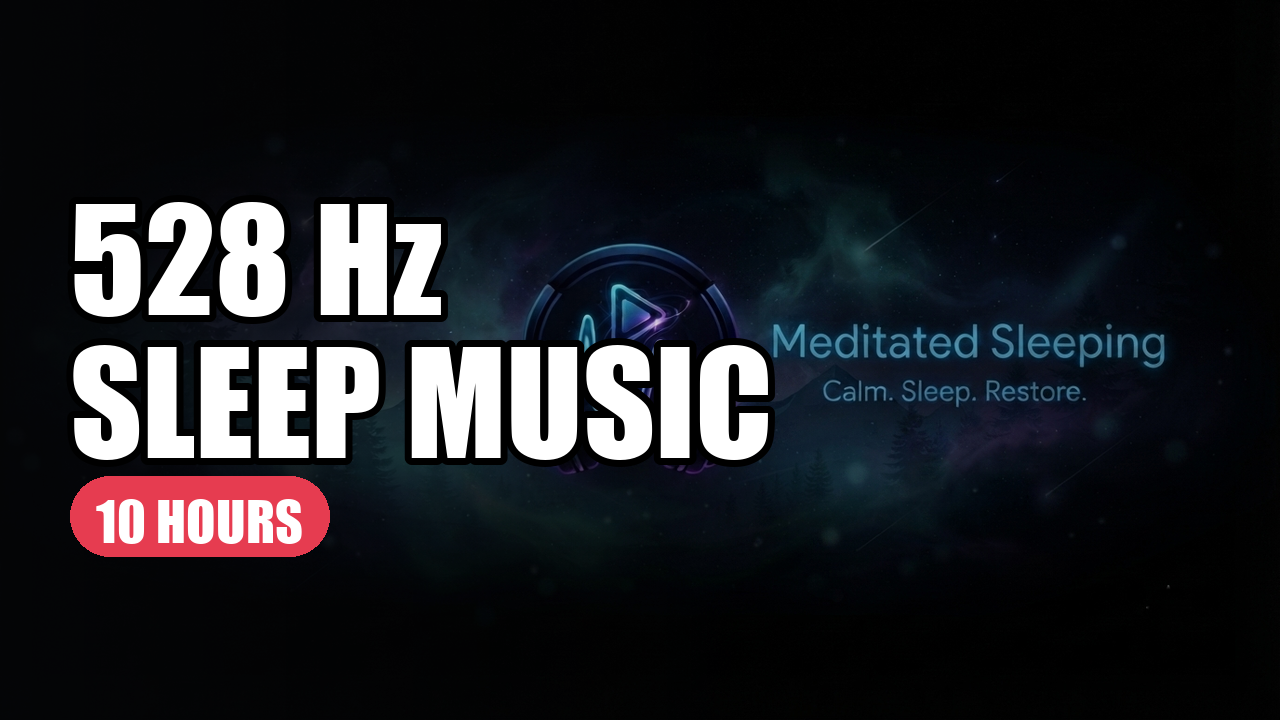
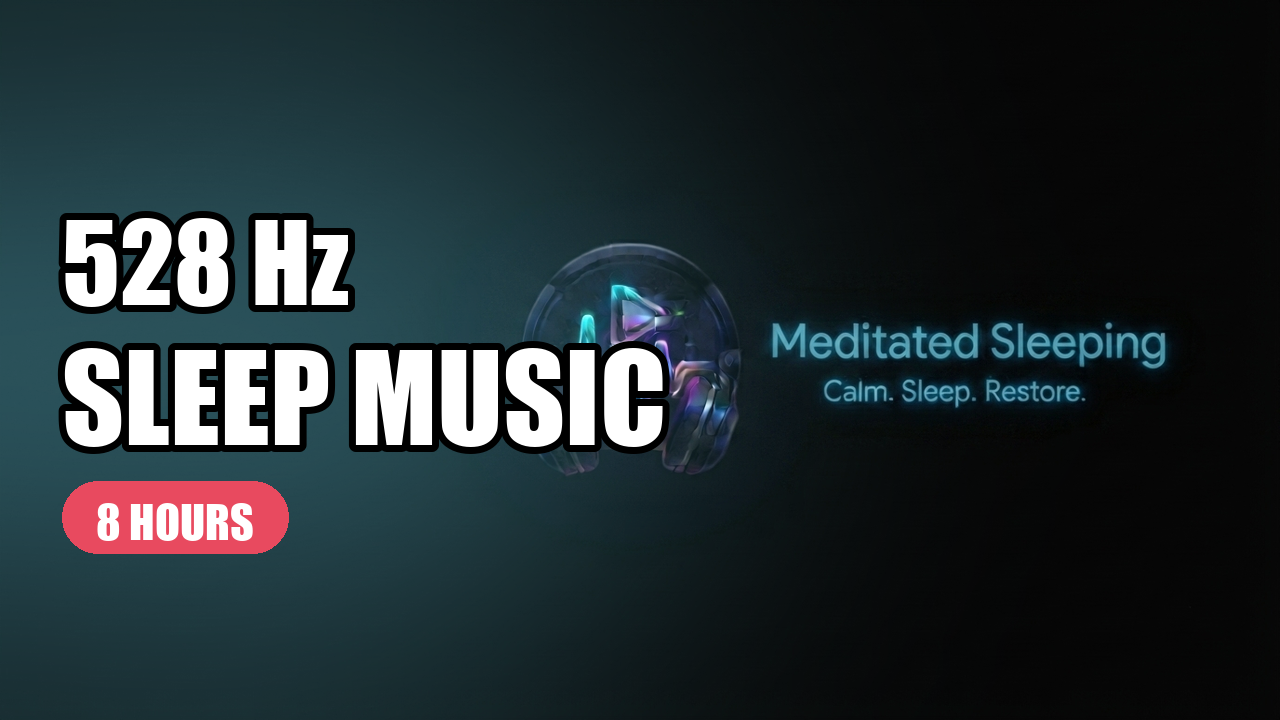
Thumbnails for all 19 themes + regenerable generator
- New: scripts/make_thumbnails.py builds 1280x720 thumbnails in the channel
  style (branded base + per-theme accent glow, two-line headline, duration
  pill). Local dev tool (needs Pillow); thumbnails ship as committed PNGs.
- Adds the 8 missing thumbnails: rain_drops, solfeggio_heal/spirit/deepsleep,
  om_136, 963hz_awakening, 852hz_intuition, 741hz_clarity
- Fixes 4 stale duration badges: gamma_focus, 528hz_sleep, delta_sleep and
  432hz_relax still read "10 HOURS" after those themes moved to 8h. The badge
  now comes from themes.long_hours_for(), so re-running after any duration
  change keeps it truthful (--stale regenerates only mismatched ones).

diff --git a/scripts/make_thumbnails.py b/scripts/make_thumbnails.py
@@ -1,0 +1,169 @@
+#!/usr/bin/env python3
+"""
+Generate per-theme long-form thumbnails (1280x720) in the channel style.
+
+Local dev tool — thumbnails are committed as PNGs and consumed by produce.py,
+so this is NOT run in CI. Requires Pillow (pip install pillow).
+
+Style: the branded base (headphone logo + "Meditated Sleeping") with a soft
+per-theme colour glow, a big two-line headline on the left, and a duration
+pill. The duration is read from themes.long_hours_for(), so re-running this
+after a duration change keeps the badges truthful.
+
+Usage:
+    python make_thumbnails.py                 # only themes with no thumbnail yet
+    python make_thumbnails.py --all           # regenerate every theme
+    python make_thumbnails.py --themes 963hz_awakening,om_136
+    python make_thumbnails.py --stale         # only ones whose badge is wrong
+"""
+import argparse
+import os
+import sys
+
+from PIL import Image, ImageChops, ImageDraw, ImageFilter, ImageFont
+
+sys.path.insert(0, os.path.dirname(os.path.abspath(__file__)))
+import themes as T  # noqa: E402
+
+HERE = os.path.dirname(os.path.abspath(__file__))
+ROOT = os.path.dirname(HERE)
+BASE = os.path.join(ROOT, "assets", "branding", "thumbnail_1280x720.png")
+OUT_DIR = os.path.join(ROOT, "assets", "thumbnails", "gen")
+
+W, H = 1280, 720
+MARGIN_X = 62
+MAX_TEXT_W = 660          # keep the headline clear of the brand lockup
+PILL_FILL = (232, 74, 95)  # channel red/pink
+
+FONT_CANDIDATES = [
+    r"C:\Windows\Fonts\impact.ttf",
+    r"C:\Windows\Fonts\arialbd.ttf",
+    "/usr/share/fonts/truetype/dejavu/DejaVuSans-Bold.ttf",
+]
+
+# headline lines + accent glow colour per theme
+STYLES = {
+    "rain_drops":          (["SOFT RAIN", "& WATER DROPS"], (60, 150, 200)),
+    "solfeggio_heal":      (["432·528·741 Hz", "HEALING SLEEP"], (70, 90, 210)),
+    "solfeggio_spirit":    (["528·741·963 Hz", "BODY & SPIRIT"], (150, 80, 210)),
+    "solfeggio_deepsleep": (["SOLFEGGIO + DELTA", "DEEP SLEEP"], (60, 100, 200)),
+    "om_136":              (["OM 136 Hz", "MEDITATION"], (215, 150, 60)),
+    "963hz_awakening":     (["963 Hz", "CROWN CHAKRA"], (150, 90, 220)),
+    "852hz_intuition":     (["852 Hz", "THIRD EYE"], (110, 90, 220)),
+    "741hz_clarity":       (["741 Hz", "CLEANSE & CLARITY"], (70, 180, 150)),
+    # already-shipped themes, for --all / --stale regeneration
+    "rain":                (["RAIN SOUNDS", "FOR SLEEPING"], (60, 140, 190)),
+    "waterfall":           (["WATERFALL", "SOUNDS"], (60, 170, 190)),
+    "forest":              (["FOREST", "SOUNDS"], (70, 170, 110)),
+    "sleeping":            (["DEEP SLEEP", "MUSIC"], (70, 110, 200)),
+    "indian":              (["INDIAN", "SLEEP MUSIC"], (210, 140, 60)),
+    "romantic":            (["ROMANTIC", "MUSIC"], (215, 80, 130)),
+    "romantic_night":      (["ROMANTIC NIGHT", "MUSIC"], (180, 70, 150)),
+    "gamma_focus":         (["40 Hz GAMMA", "FOCUS MUSIC"], (200, 160, 60)),
+    "528hz_sleep":         (["528 Hz", "SLEEP MUSIC"], (80, 170, 190)),
+    "delta_sleep":         (["DELTA WAVES", "DEEP SLEEP"], (70, 100, 200)),
+    "432hz_relax":         (["432 Hz", "RELAXING MUSIC"], (200, 110, 170)),
+}
+
+
+def load_font(size):
+    for path in FONT_CANDIDATES:
+        if os.path.exists(path):
+            return ImageFont.truetype(path, size)
+    return ImageFont.load_default()
+
+
+def fit_font(draw, text, start, min_size=40):
+    """Largest font size at which `text` fits MAX_TEXT_W."""
+    size = start
+    while size > min_size:
+        f = load_font(size)
+        if draw.textlength(text, font=f) <= MAX_TEXT_W:
+            return f
+        size -= 2
+    return load_font(min_size)
+
+
+def glow(img, color):
+    """Soft radial accent glow behind the headline area.
+
+    Screen-blended (lighten-only) so it lifts the black background without
+    dimming the brand lockup — a straight blend darkens the logo.
+    """
+    layer = Image.new("RGB", (W, H), (0, 0, 0))
+    d = ImageDraw.Draw(layer)
+    d.ellipse([-220, 60, 700, 660], fill=tuple(int(c * 0.5) for c in color))
+    layer = layer.filter(ImageFilter.GaussianBlur(170))
+    return ImageChops.screen(img, layer)
+
+
+def duration_label(key):
+    h = T.long_hours_for(key)
+    return f"{h} HOURS"
+
+
+def build(key, lines, color):
+    base = Image.open(BASE).convert("RGB").resize((W, H))
+    img = glow(base, color)
+    draw = ImageDraw.Draw(img)
+
+    f1 = fit_font(draw, lines[0], 108)
+    f2 = fit_font(draw, lines[1], 120)
+    h1 = draw.textbbox((0, 0), lines[0], font=f1)[3]
+    h2 = draw.textbbox((0, 0), lines[1], font=f2)[3]
+
+    y = 196
+    for text, font, hh in ((lines[0], f1, h1), (lines[1], f2, h2)):
+        draw.text((MARGIN_X, y), text, font=font, fill=(255, 255, 255),
+                  stroke_width=7, stroke_fill=(0, 0, 0))
+        y += hh + 16
+
+    # duration pill
+    label = duration_label(key)
+    pf = load_font(46)
+    tw = draw.textlength(label, font=pf)
+    px0, py0 = MARGIN_X, y + 18
+    px1, py1 = px0 + tw + 68, py0 + 72
+    draw.rounded_rectangle([px0, py0, px1, py1], radius=36, fill=PILL_FILL)
+    draw.text((px0 + 34, py0 + 12), label, font=pf, fill=(255, 255, 255))
+
+    os.makedirs(OUT_DIR, exist_ok=True)
+    path = os.path.join(OUT_DIR, f"{key}.png")
+    img.save(path, "PNG", optimize=True)
+    return path
+
+
+def main():
+    p = argparse.ArgumentParser()
+    p.add_argument("--all", action="store_true", help="regenerate every theme")
+    p.add_argument("--stale", action="store_true",
+                   help="only themes whose duration badge no longer matches")
+    p.add_argument("--themes", default=None, help="comma-separated theme keys")
+    args = p.parse_args()
+
+    keys = [t["key"] for t in T.THEMES]
+    if args.themes:
+        keys = [k.strip() for k in args.themes.split(",") if k.strip()]
+    elif args.stale:
+        keys = [k for k in keys if T.long_hours_for(k) != 10
+                and os.path.exists(os.path.join(OUT_DIR, f"{k}.png"))]
+    elif not args.all:
+        keys = [k for k in keys
+                if not os.path.exists(os.path.join(OUT_DIR, f"{k}.png"))]
+
+    if not keys:
+        print("Nothing to generate.")
+        return
+
+    for k in keys:
+        if k not in STYLES:
+            print(f"  ! no style defined for {k}, skipping")
+            continue
+        lines, color = STYLES[k]
+        path = build(k, lines, color)
+        print(f"  {k:20s} {duration_label(k):9s} -> {os.path.relpath(path, ROOT)}")
+    print(f"\nDone: {len(keys)} thumbnail(s).")
+
+
+if __name__ == "__main__":
+    main()
